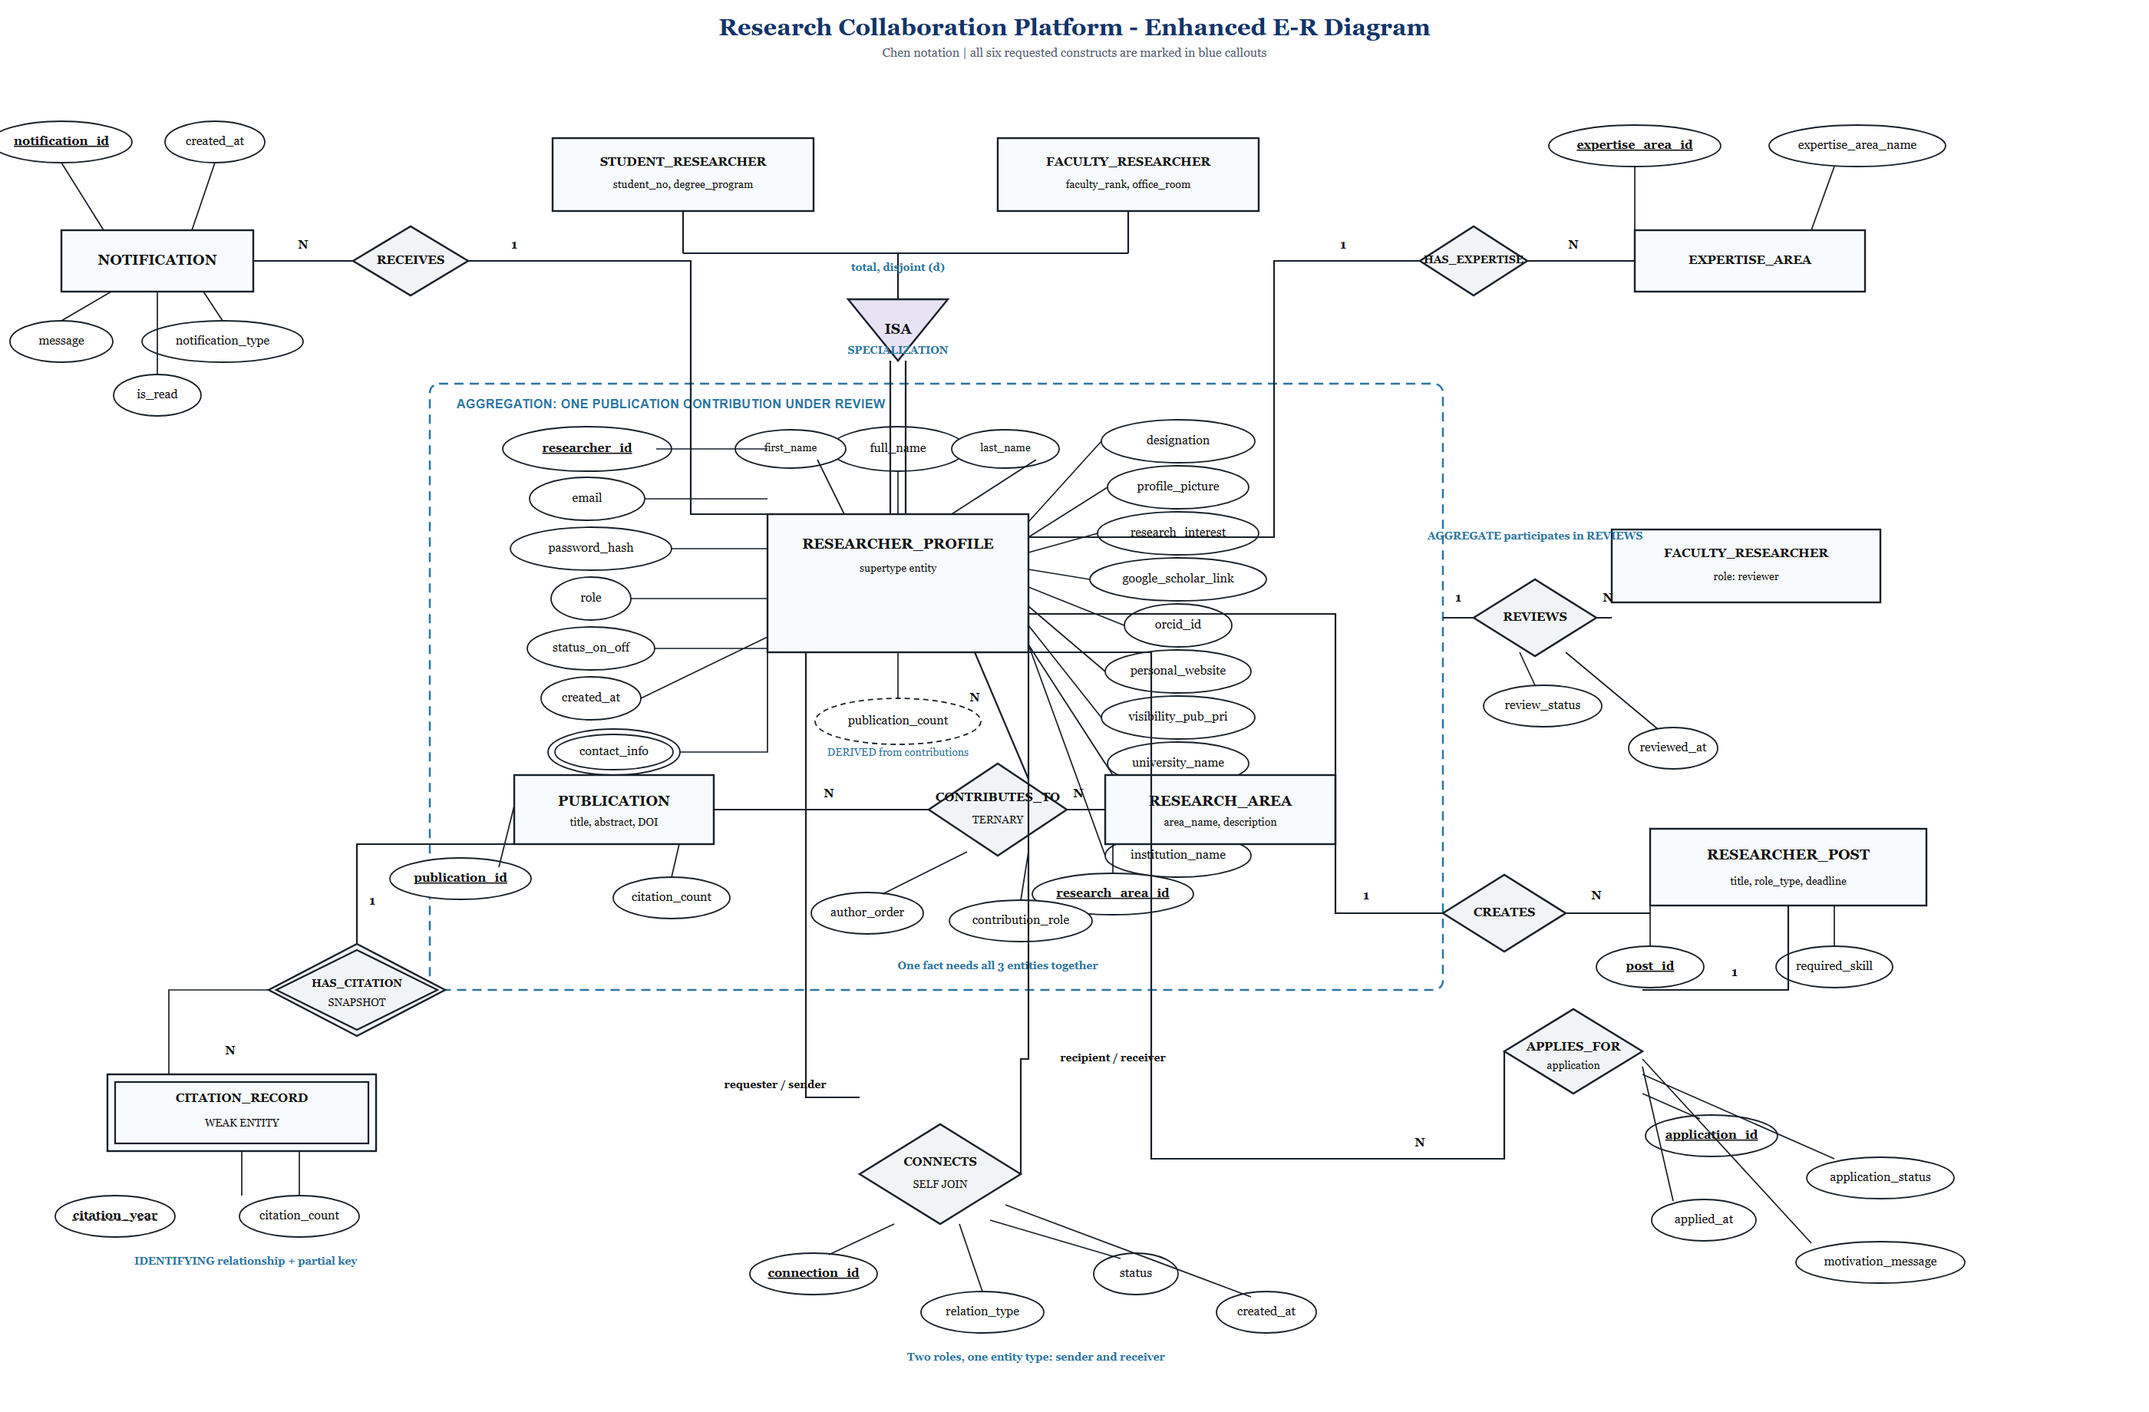
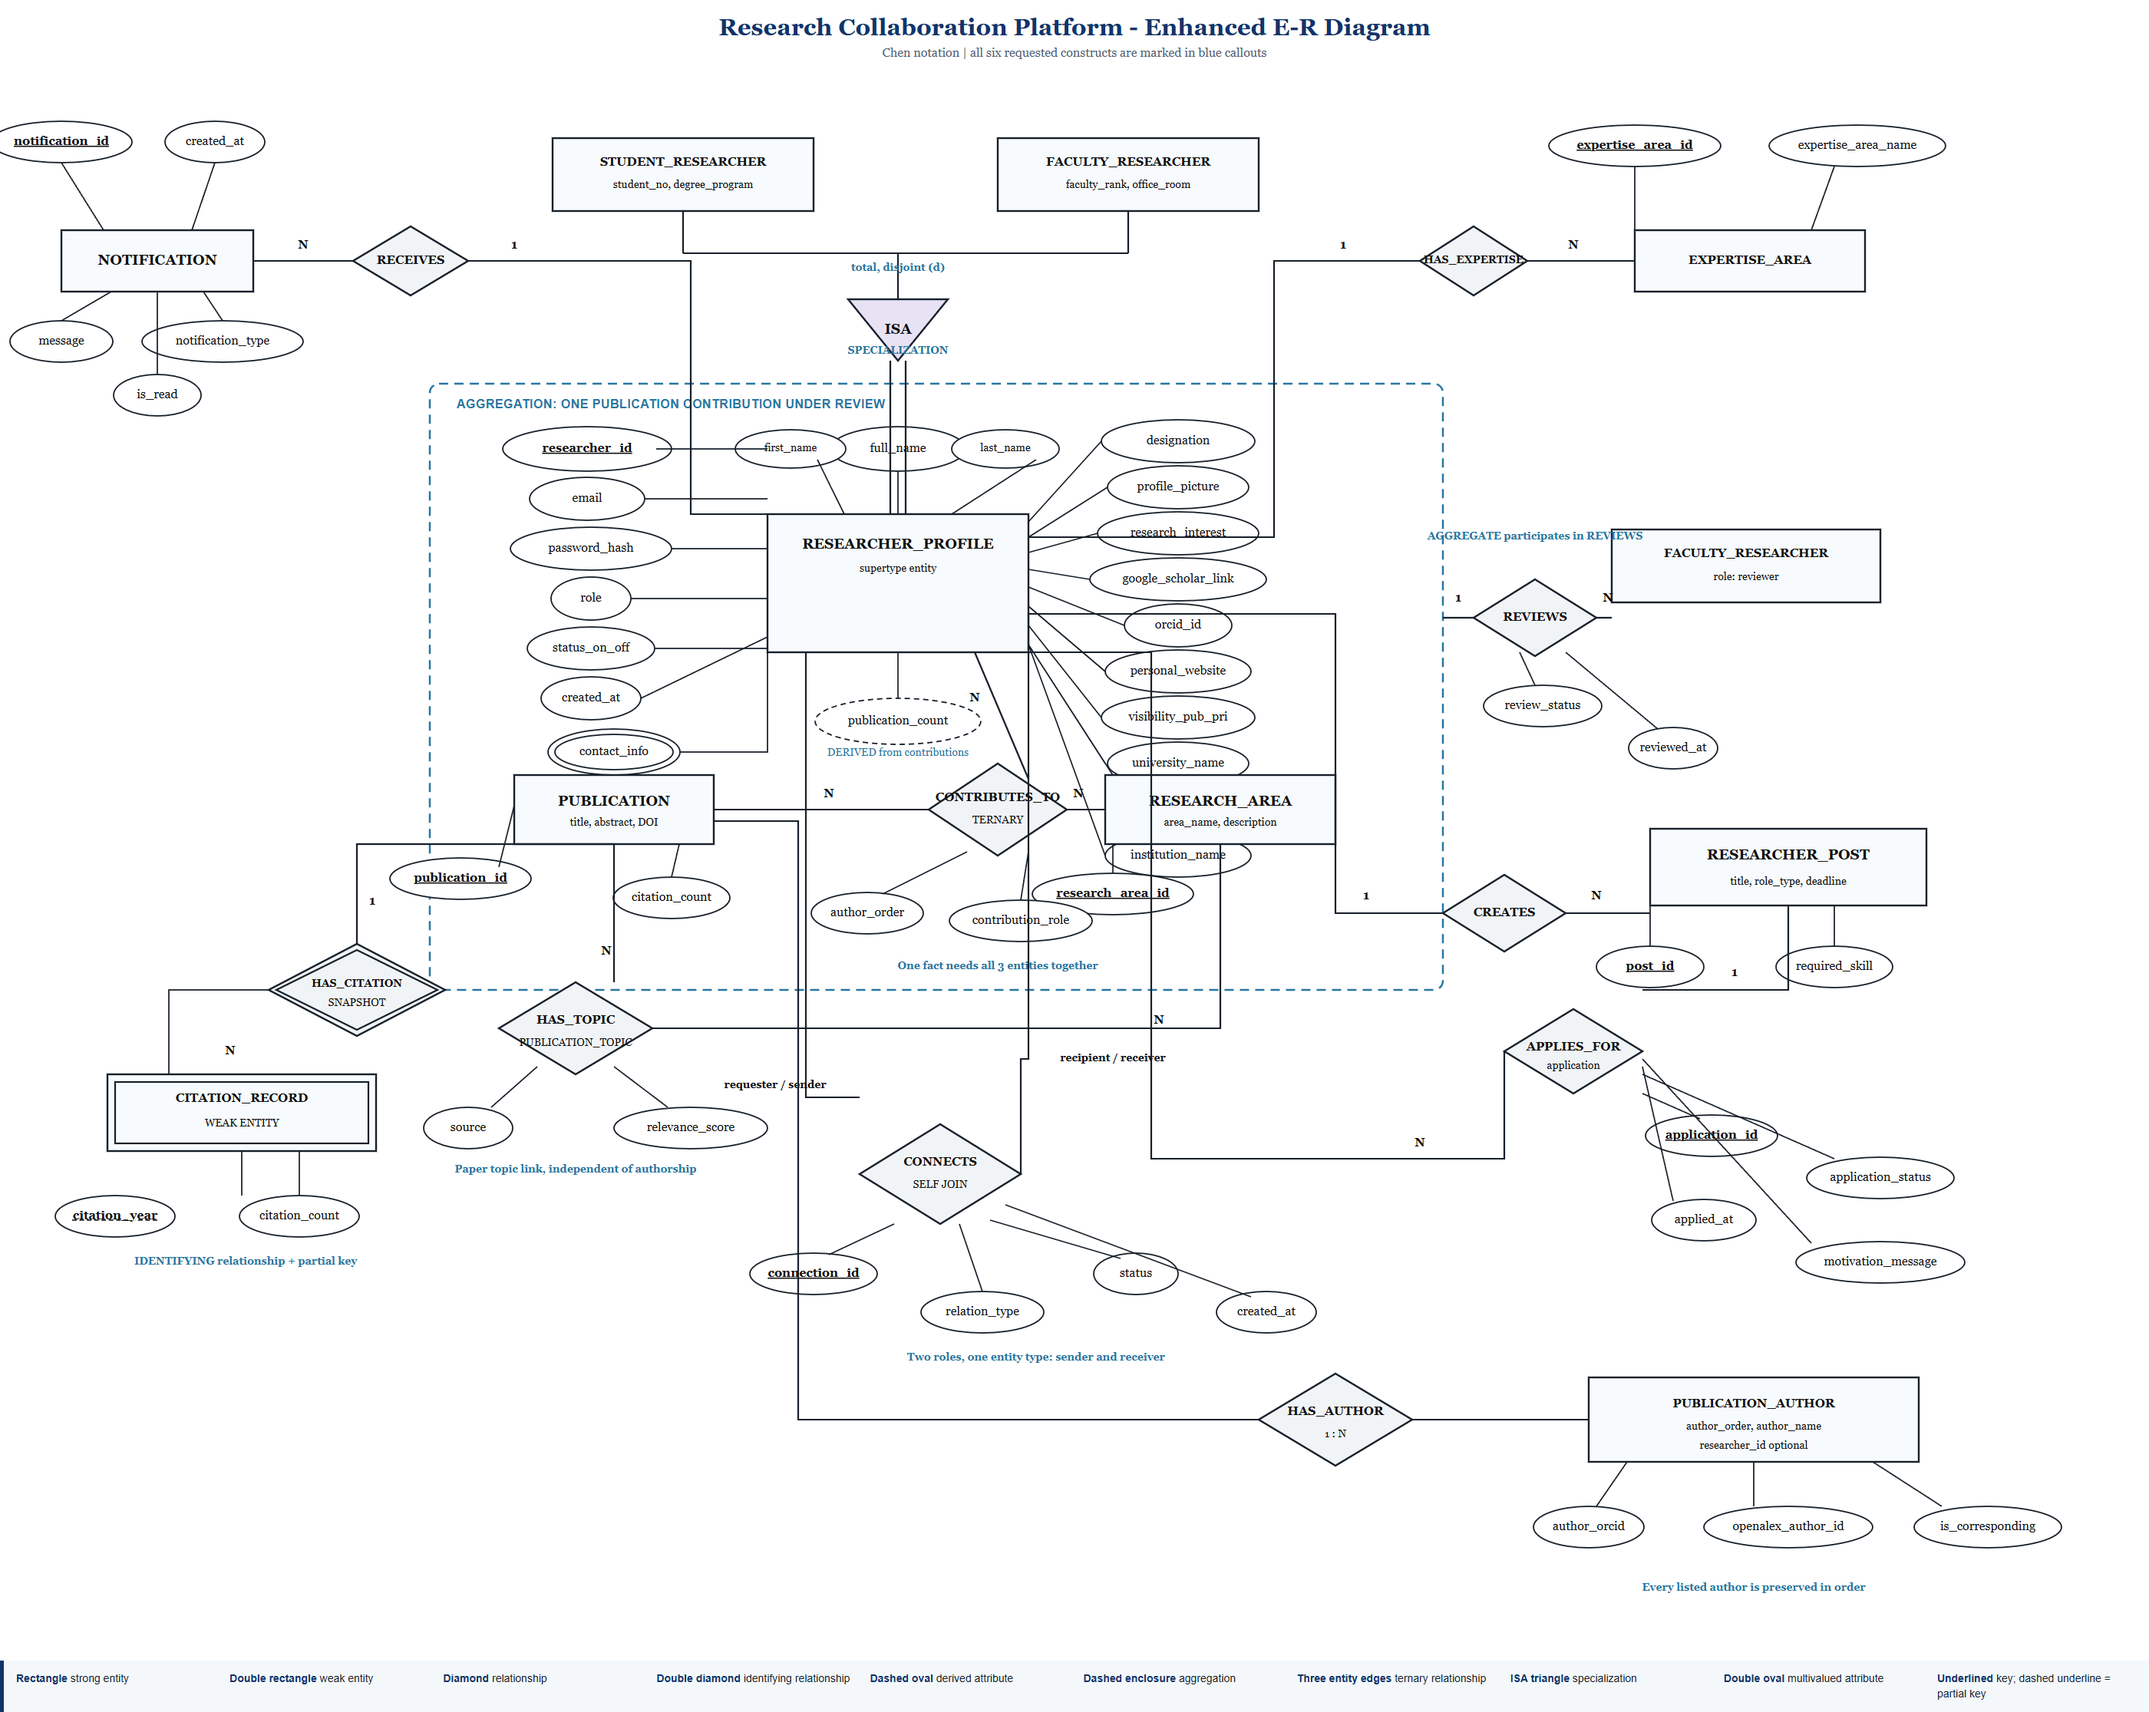
docs: complete publication diagram exports

diff --git a/project-schema-er/index.html b/project-schema-er/index.html
@@ -89,9 +89,9 @@
       <h2>Task A - Enhanced Chen E-R Diagram</h2>
       <p class="intro">The dashed enclosure is an aggregation. The three-way diamond is ternary. The looped CONNECTS relationship is a recursive self join. Double borders identify the weak citation entity and its identifying relationship.</p>
       <div class="diagram-scroll"><div class="diagram-export" id="er-export">
-        <svg id="er-diagram" viewBox="0 0 2800 1840" role="img" aria-labelledby="er-title er-desc">
+        <svg id="er-diagram" viewBox="0 0 2800 2150" role="img" aria-labelledby="er-title er-desc">
           <title id="er-title">Enhanced Research Collaboration Platform Chen ER Diagram</title>
-          <desc id="er-desc">Researcher specialization, ternary contribution, aggregation for review, recursive connection, derived publication count, weak citation history, notification, research area, expertise area, posts, and applications.</desc>
+          <desc id="er-desc">Researcher specialization, ternary contribution, aggregation for review, recursive connection, derived publication count, weak citation history, publication topics, publication authors, notification, research area, expertise area, posts, and applications.</desc>
           <defs>
             <marker id="er-arrow" markerWidth="12" markerHeight="12" refX="10" refY="4" orient="auto"><path d="M0,0 L0,8 L10,4 z" fill="#17202a"/></marker>
           </defs>
@@ -185,6 +185,15 @@
           <path class="connector thin" d="M1260 1110 L1150 1165 M1340 1110 L1330 1173"/>
           <text class="label tiny bold" x="1300" y="1260" style="fill:#2877a4">One fact needs all 3 entities together</text>
 
+          <!-- Restored paper-level topic mapping: a publication can be classified in many research areas. -->
+          <polygon class="relationship" points="650,1340 750,1280 850,1340 750,1400"/><text class="label bold small" x="750" y="1330">HAS_TOPIC</text><text class="label tiny" x="750" y="1360">PUBLICATION_TOPIC</text>
+          <path class="connector" d="M800 1100 V1280 M850 1340 H1590 V1100"/>
+          <text class="label bold small" x="790" y="1240">N</text><text class="label bold small" x="1510" y="1330">N</text>
+          <ellipse class="attribute" cx="610" cy="1470" rx="58" ry="27"/><text class="label small" x="610" y="1470">source</text>
+          <ellipse class="attribute" cx="900" cy="1470" rx="100" ry="27"/><text class="label small" x="900" y="1470">relevance_score</text>
+          <path class="connector thin" d="M700 1390 L640 1443 M800 1390 L870 1443"/>
+          <text class="label tiny bold" x="750" y="1525" style="fill:#2877a4">Paper topic link, independent of authorship</text>
+
           <!-- Aggregation participant: faculty reviewer reviews the contribution occurrence -->
           <rect class="entity-subtype" x="2100" y="690" width="350" height="95"/><text class="label bold small" x="2275" y="722">FACULTY_RESEARCHER</text><text class="label tiny" x="2275" y="753">role: reviewer</text>
           <polygon class="relationship" points="1920,805 2000,755 2080,805 2000,855"/><text class="label bold small" x="2000" y="805">REVIEWS</text>
@@ -232,6 +241,16 @@
           <ellipse class="attribute" cx="1650" cy="1710" rx="65" ry="27"/><text class="label small" x="1650" y="1710">created_at</text>
           <path class="connector thin" d="M1165 1595 L1080 1635 M1250 1595 L1280 1683 M1290 1590 L1460 1640 M1310 1570 L1630 1690"/>
           <text class="label tiny bold" x="1350" y="1770" style="fill:#2877a4">Two roles, one entity type: sender and receiver</text>
+
+          <!-- Restored complete author listing, including authors who are not platform researchers. -->
+          <polygon class="relationship" points="1640,1850 1740,1790 1840,1850 1740,1910"/><text class="label bold small" x="1740" y="1840">HAS_AUTHOR</text><text class="label tiny" x="1740" y="1870">1 : N</text>
+          <path class="connector" d="M930 1070 H1040 V1850 H1640 M1840 1850 H2070"/>
+          <rect class="entity" x="2070" y="1795" width="430" height="110"/><text class="label bold small" x="2285" y="1830">PUBLICATION_AUTHOR</text><text class="label tiny" x="2285" y="1860">author_order, author_name</text><text class="label tiny" x="2285" y="1885">researcher_id optional</text>
+          <ellipse class="attribute" cx="2070" cy="1990" rx="72" ry="27"/><text class="label small" x="2070" y="1990">author_orcid</text>
+          <ellipse class="attribute" cx="2330" cy="1990" rx="110" ry="27"/><text class="label small" x="2330" y="1990">openalex_author_id</text>
+          <ellipse class="attribute" cx="2590" cy="1990" rx="96" ry="27"/><text class="label small" x="2590" y="1990">is_corresponding</text>
+          <path class="connector thin" d="M2120 1905 L2080 1963 M2285 1905 V1963 M2440 1905 L2530 1963"/>
+          <text class="label tiny bold" x="2285" y="2070" style="fill:#2877a4">Every listed author is preserved in order</text>
         </svg>
         <div class="legend">
           <span><b>Rectangle</b> strong entity</span>
@@ -280,6 +299,10 @@
             <path d="M1080 1015 H1140 V155 H300" data-ref="PUBLICATION_CONTRIBUTION.researcher_id -> RESEARCHER_PROFILE.researcher_id"/>
             <path d="M1080 1015 H1160 V590 H870" data-ref="PUBLICATION_CONTRIBUTION.research_area_id -> RESEARCH_AREA.research_area_id"/>
             <path d="M1480 1015 H1440 V590 H1180" data-ref="PUBLICATION_CITATION.publication_id -> PUBLICATION.publication_id"/>
+            <path d="M1740 1289 H1690 V590 H1610" data-ref="PUBLICATION_TOPIC.publication_id -> PUBLICATION.publication_id"/>
+            <path d="M1740 1315 H1660 V250 H1480" data-ref="PUBLICATION_TOPIC.research_area_id -> RESEARCH_AREA.research_area_id"/>
+            <path d="M2220 1289 H2160 V590 H1610" data-ref="PUBLICATION_AUTHOR.publication_id -> PUBLICATION.publication_id"/>
+            <path d="M2220 1315 H2120 V155 H740" data-ref="PUBLICATION_AUTHOR.researcher_id -> RESEARCHER_PROFILE.researcher_id"/>
             <!-- aggregation review -->
             <path d="M1480 1495 H1440 V155 H300" data-ref="PUBLICATION_REVIEW.reviewer_id -> RESEARCHER_PROFILE.researcher_id"/>
             <path d="M1480 1495 H1400 V1015 H1180" data-ref="PUBLICATION_REVIEW.contributor_id -> PUBLICATION_CONTRIBUTION.researcher_id"/>
@@ -326,7 +349,7 @@
             <rect class="table" x="800" y="560" width="350" height="190"/><rect class="table-head" x="800" y="560" width="350" height="42"/><text class="label bold small" x="975" y="581">RESEARCHER_EXPERTISE</text><text class="schema-text schema-key" x="816" y="609">researcher_id (PK, FK)</text><text class="schema-text schema-key" x="816" y="635">expertise_area_id (PK, FK)</text><text class="schema-text" x="816" y="661">proficiency_level</text>
           </g>
           <g>
-            <rect class="table" x="1180" y="560" width="430" height="372"/><rect class="table-head" x="1180" y="560" width="430" height="42"/><text class="label bold" x="1395" y="581">PUBLICATION</text><text class="schema-text schema-key" x="1196" y="609">publication_id (PK)</text><text class="schema-text" x="1196" y="635">topic_name</text><text class="schema-text" x="1196" y="661">title</text><text class="schema-text" x="1196" y="687">abstract</text><text class="schema-text" x="1196" y="713">publication_year</text><text class="schema-text" x="1196" y="739">publication_type</text><text class="schema-text" x="1196" y="765">journal_or_conference</text><text class="schema-text" x="1196" y="791">doi</text><text class="schema-text" x="1196" y="817">paper_url</text><text class="schema-text" x="1196" y="843">publication_details_url</text><text class="schema-text" x="1196" y="869">citation_count</text><text class="schema-text" x="1196" y="895">created_at</text>
+             <rect class="table" x="1180" y="560" width="430" height="372"/><rect class="table-head" x="1180" y="560" width="430" height="42"/><text class="label bold" x="1395" y="581">PUBLICATION</text><text class="schema-text schema-key" x="1196" y="609">publication_id (PK)</text><text class="schema-text" x="1196" y="635">title</text><text class="schema-text" x="1196" y="661">abstract</text><text class="schema-text" x="1196" y="687">publication_year</text><text class="schema-text" x="1196" y="713">publication_type</text><text class="schema-text" x="1196" y="739">journal_or_conference</text><text class="schema-text" x="1196" y="765">doi</text><text class="schema-text" x="1196" y="791">paper_url</text><text class="schema-text" x="1196" y="817">publication_details_url</text><text class="schema-text" x="1196" y="843">citation_count</text><text class="schema-text" x="1196" y="869">created_at</text><text class="schema-text" x="1196" y="895">discovery moved to topic/author</text>
           </g>
           <g>
             <rect class="table" x="1660" y="560" width="380" height="190"/><rect class="table-head" x="1660" y="560" width="380" height="42"/><text class="label bold small" x="1850" y="581">RESEARCHER_POST</text><text class="schema-text schema-key" x="1676" y="609">post_id (PK)</text><text class="schema-text" x="1676" y="635">posted_by_researcher_id (FK)</text><text class="schema-text" x="1676" y="661">title, description</text><text class="schema-text" x="1676" y="687">role_type</text><text class="schema-text" x="1676" y="713">required_topic, required_skill</text><text class="schema-text" x="1676" y="739">application_deadline, status</text>
